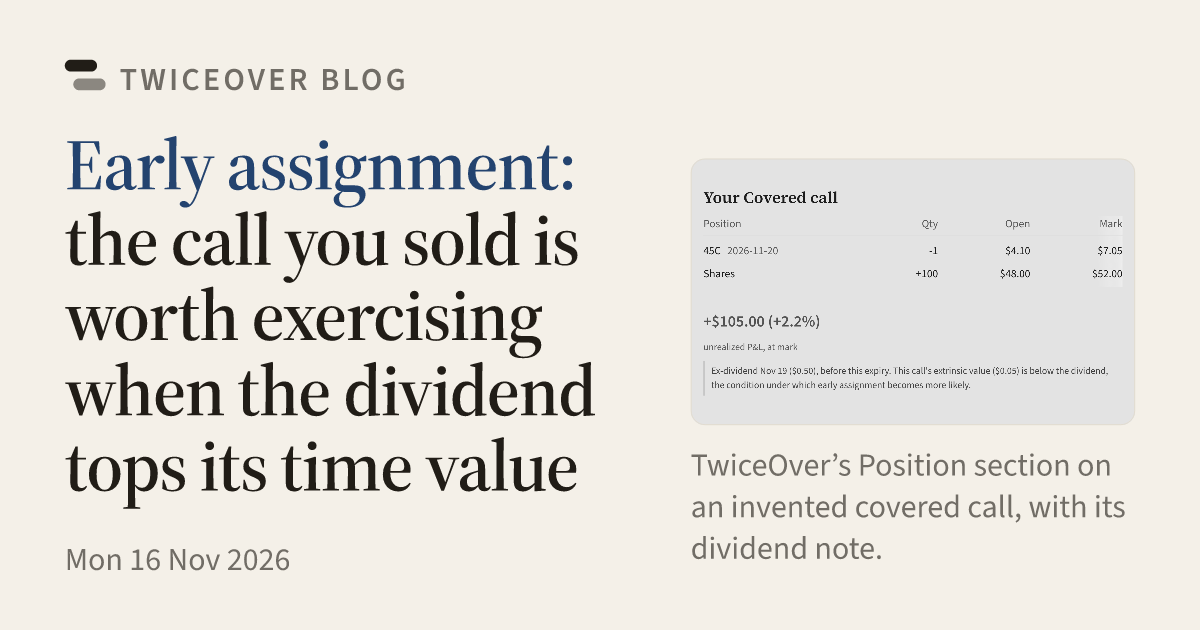
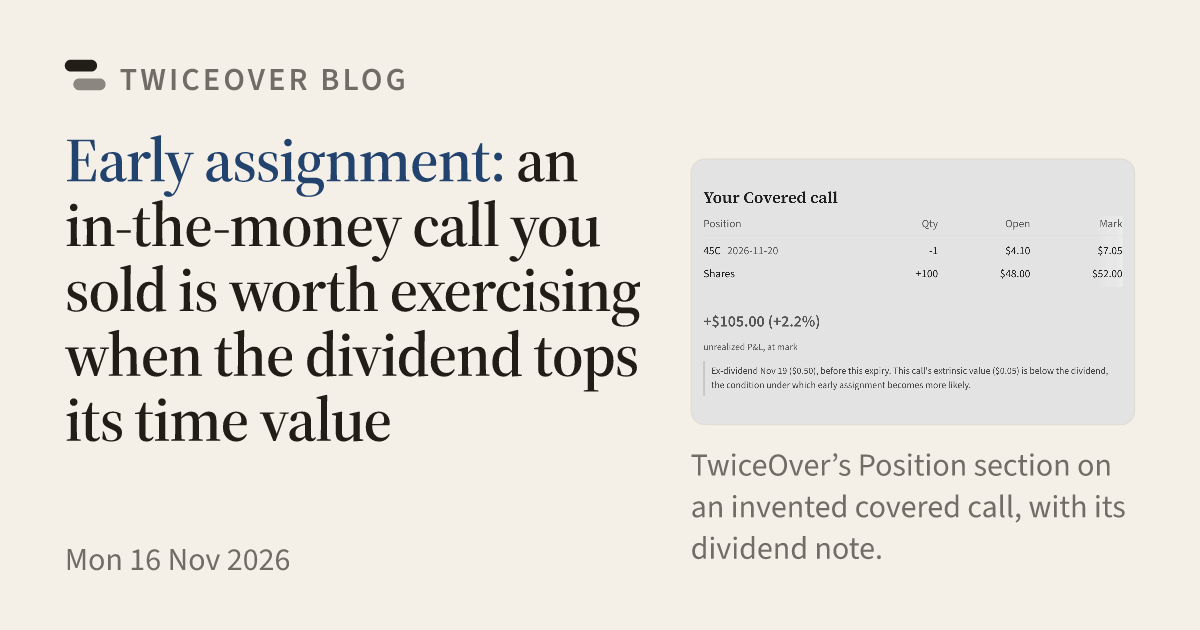
growth(stock-analyst-platform#4279): the test holds for an in-the-money call; reads' fixes

Changed region(s): [[0.0308, 0.2111, 0.555, 0.8143]]

diff --git a/src/content/blog/early-assignment-before-dividend.md b/src/content/blog/early-assignment-before-dividend.md
@@ -1,6 +1,6 @@
 ---
-title: "Early assignment: the call you sold is worth exercising when the dividend tops its time value"
-description: "On the last day before a stock goes ex-dividend, a call's owner gains by exercising when the dividend is bigger than the time value left in the call. The writer then misses the dividend, or owes it."
+title: "Early assignment: an in-the-money call you sold is worth exercising when the dividend tops its time value"
+description: "On the last day before a stock goes ex-dividend, the owner of an in-the-money call gains by exercising when the dividend is bigger than the time value left in the call. The writer then misses the dividend, or owes it."
 publishAt: "2026-11-16T07:00:00-05:00"
 topic: "expiration-assignment"
 lens: "concept"
@@ -15,7 +15,7 @@ image:
 sources: "Cboe on dividend risk | https://www.cboe.com/insights/posts/dont-get-stuck-paying-the-dividend-on-your-short-trade/; OIC on covered calls | https://www.optionseducation.org/strategies/all-strategies/covered-call-buy-write; OIC on T+1 | https://www.optionseducation.org/news/understanding-t-1-conversion; FINRA Notice 24-04 | https://www.finra.org/rules-guidance/notices/24-04; FINRA on assignment | https://www.finra.org/investors/insights/trading-options-understanding-assignment"
 ---
 
-You sold a call, and it can be exercised before it expires. The day it is most likely is the last day before the stock goes ex-dividend, when the dividend is worth more than the time value left in your call.
+You sold a call, and it can be exercised before it expires. Exercise is most likely on the last day before the stock goes ex-dividend, when the call is in the money and the dividend is worth more than its time value.
 
 ## 1. The words first
 
@@ -23,7 +23,7 @@ You sold the call, so you are its writer. The buyer is its holder. When the hold
 
 A US stock option can be exercised on any day the market is open before it expires. So a writer can be assigned on any of those days. What can happen on the last day, after the 4:00 close, is in [our post on the expiring option](/blog/expiring-option-after-the-close).
 
-A call's price has two parts. Intrinsic value is what exercising pays right now: the stock price minus the strike, or zero when the stock is below it. Time value is everything above that. It is what the holder gives up by exercising today. How fast it can drain around earnings is worked in [our post on IV crush](/blog/iv-crush-call-before-earnings).
+A call is in the money when the stock is above the strike. Its price has two parts. Intrinsic value is what exercising pays right now: the stock price minus the strike, or zero when the stock is below it. Time value is everything above that. It is what the holder gives up by exercising today. How fast it can drain around earnings is worked in [our post on IV crush](/blog/iv-crush-call-before-earnings).
 
 The ex-dividend date is the first day a buyer of the stock no longer gets the next dividend. On that morning the stock usually opens lower by about the dividend.
 
@@ -51,25 +51,25 @@ Wednesday is the holder’s last day to exercise and still get the dividend. Say
 | Exercise: pay $45.00 for a share worth $51.50, and be owed the $0.50 dividend | $7.00 |
 | Gain from exercising | $0.45 |
 
-The gain is the dividend minus the time value: $0.50 minus $0.05. Per contract, that is a $45 gain. Change one number and the answer flips. With $0.60 of time value instead, keeping the call is worth $7.10, and exercising loses the holder $0.10 a share.
+The gain is the dividend minus the time value: $0.50 minus $0.05. Per contract, that is a $45 gain. Change one number and the answer flips. Had the call held $0.60 of time value, keeping it would be worth $7.10, and exercising would lose the holder $0.10 a share.
 
-So the test is two numbers: the dividend and the call’s time value. The holder gains by exercising when the dividend is the larger one. Strictly, what counts is the time value the call keeps after Thursday’s drop, and the holder also pays the strike a day early. Two days from expiration, the first stays near Wednesday’s $0.05, and the second costs about half a cent a share at a 4% interest rate.
+So for a call that stays in the money after the drop, the test is two numbers: the dividend and the call’s time value. The holder gains by exercising when the dividend is the larger one. A call out of the money never passes. Paying $45 for a share worth less than $45 loses money, whatever the dividend. Strictly, what counts is the time value the call keeps after Thursday’s drop. The holder also pays the strike four days sooner than an exercise at expiration, which settles on Monday 23 November. Here the first stays near Wednesday’s $0.05, and the second costs about 2 cents a share at a 4% interest rate.
 
 ## 4. What early assignment costs you
 
-You expected to keep your shares through Thursday, collect the dividend, and have them called away at $45 on Friday. Early assignment takes them on Thursday instead.
+You expected to keep your shares through Thursday, collect the dividend, and have them called away at $45 on Friday. Early assignment delivers them on Thursday.
 
-| Your covered call | Assigned at expiration | Assigned early, on Thursday |
+| Your covered call | Assigned at expiration | Assigned early |
 |---|---|---|
 | Shares sold at the strike | $4,500 | $4,500 |
-| Paid for the shares | $4,800 | $4,800 |
+| Paid for the shares | −$4,800 | −$4,800 |
 | Premium collected | $410 | $410 |
 | Dividend | $50 | $0 |
 | Result | $160 | $110 |
 
 The early assignment costs you the $50 dividend. Everything else is the same, as long as the stock is still above $45 on Friday.
 
-A writer who sold the call without owning the shares owes the dividend. Assigned on Wednesday’s exercise, that writer is short 100 shares on Thursday, the record date. A short seller pays the dividend to whoever lent the shares: $50 here.
+A writer assigned on a call sold without owning the shares owes the dividend. Assigned on Wednesday’s exercise, that writer is short 100 shares on Thursday, the record date. A short seller pays the dividend to whoever lent the shares: $50 here.
 
 ## 5. The calendar that makes it Wednesday
 
@@ -77,13 +77,13 @@ Since 28 May 2024, US stock trades settle one business day after the trade. That
 
 | Day | What happens |
 |---|---|
-| Wednesday 18 Nov | The holder sends the exercise. It is the last day that settles in time. |
+| Wednesday 18 Nov | The holder sends the exercise, on the last day that settles in time. |
 | Thursday 19 Nov, before the open | You get the assignment notice. |
 | Thursday 19 Nov | The exercise settles. The holder is the owner on the record date, which is also the ex-dividend date. |
 | Friday 20 Nov | The call would have expired. |
 
 The clearing house hands each exercise to a broker at random. The broker picks one of its customers who sold that call, at random or by its own fair method. Not every holder exercises. You find out on Thursday morning whether you were picked.
 
-## 6. The three numbers behind it
+## 6. What decides it
 
-For any call you sold, three numbers decide whether this case is live. The ex-dividend date, and whether it falls before expiration. The dividend per share. The call’s time value at its current price. When the dividend is the larger of the last two, early assignment becomes more likely.
+For any call you sold, four facts decide whether this case is live. The ex-dividend date falls before expiration. The call is in the money by more than the dividend, so it stays in the money after the drop. Then two numbers: the dividend per share and the call’s time value at its current price. When the dividend is the larger one, early assignment becomes more likely.
